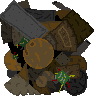
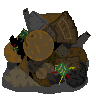
Added Background/Anims Assets

diff --git a/src/Scenes/Play.js b/src/Scenes/Play.js
@@ -4,14 +4,15 @@ class Play extends Phaser.Scene{
     }
 
     preload(){
-        this.load.image('bike', './assets/Bike_01.png');
+        this.load.atlas('atlas', './assets/spritesheet.png', './assets/sprites.json');
+        //this.load.image('bike', './assets/Bike_01.png');
 
         this.load.image('background', './assets/Background.png');
-        this.load.image('playground', './assets/Playarea.png');
-        this.load.image('foreground', './assets/Forground.png');
+        this.load.image('playground', './assets/Playground.png');
+        this.load.image('foreground', './assets/Foreground.png');
 
         this.load.image('obstacle', './assets/Obstacle.png');
-        this.load.image('bot', './assets/Robot.png');
+        //this.load.image('bot', './assets/Robot.png');
         this.load.image('ui_a', './assets/ui_a.png');
         this.load.image('ui_d', './assets/ui_d.png');
     }
@@ -23,7 +24,7 @@ class Play extends Phaser.Scene{
 
         // Create the playground
         this.background = this.add.tileSprite(0,0, gameWidth, 140, 'background').setOrigin(0,0);
-        this.playground = this.add.tileSprite(0,140, gameWidth, gameHeight - 140, 'playground').setOrigin(0,0);
+        this.playground = this.add.tileSprite(0,90, gameWidth, gameHeight - 90, 'playground').setOrigin(0,0);
         this.foreground = this.add.tileSprite(0,gameHeight - 140, gameWidth, 140, 'foreground').setOrigin(0,0);
 
         // Create Score Text
@@ -45,7 +46,7 @@ class Play extends Phaser.Scene{
         // Add Bike
         this.physics.world.setBoundsCollision(false, false, true, true);
 
-        bike = this.physics.add.sprite(64, centerY, 'bike').setOrigin(0.5);
+        bike = this.physics.add.sprite(64, centerY, 'atlas', 'bike01').setOrigin(0.5);
         bike.scale = .8;
         bike.setCollideWorldBounds(true);
         bike.setBounce(0.5);
@@ -55,6 +56,21 @@ class Play extends Phaser.Scene{
         bike.setDragX(100);
         bike.setDepth(1);             
         bike.setBlendMode('SCREEN');  // set a WebGL blend mode
+
+        this.anims.create({
+            key: 'pedal',
+            frames: this.anims.generateFrameNames('atlas', {
+                prefix: 'bike',
+                start: 1,
+                end: 8,
+                suffix: '',
+                zeroPad: 2
+            }),
+            frameRate: 8,
+            repeat: -1
+        });
+
+        bike.anims.play('pedal');
 
         // bike speed parameters
         this.bikeSpeedMult = 1;
@@ -98,6 +114,22 @@ class Play extends Phaser.Scene{
         this.junkSounds[2] = this.sound.add('sfx_junk3', {volume: 0.25});
 
         this.bot = new Bot(this, this.obstacleSpeed);
+        this.bot.scale = .8;
+
+        this.anims.create({
+            key: 'fly',
+            frames: this.anims.generateFrameNames('atlas', {
+                prefix: 'robot',
+                start: 1,
+                end: 4,
+                suffix: '',
+                zeroPad: 2
+            }),
+            frameRate: 4,
+            repeat: -1
+        });
+
+        this.bot.anims.play('fly');
 
         this.addObstacle();
     }

diff --git a/src/prefabs/Bot.js b/src/prefabs/Bot.js
@@ -1,7 +1,7 @@
 class Bot extends Phaser.Physics.Arcade.Sprite {
     constructor(scene, velocity) {
         // call Phaser Physics Sprite constructor
-        super(scene, game.config.width - 100, game.config.height/2, 'bot'); 
+        super(scene, game.config.width - 100, game.config.height/2, 'atlas', 'robot01'); 
         // set up physics sprite
         scene.add.existing(this);               // add to existing scene, displayList, updateList
         scene.physics.add.existing(this);       // add to physics system  
@@ -11,6 +11,7 @@ class Bot extends Phaser.Physics.Arcade.Sprite {
         this.interval = Math.random() * 1000;
 
         this.spawnInterval = gameWidth/scene.baseWorldSpeed * 10 /2 ;
+
     }
 
     update() {
